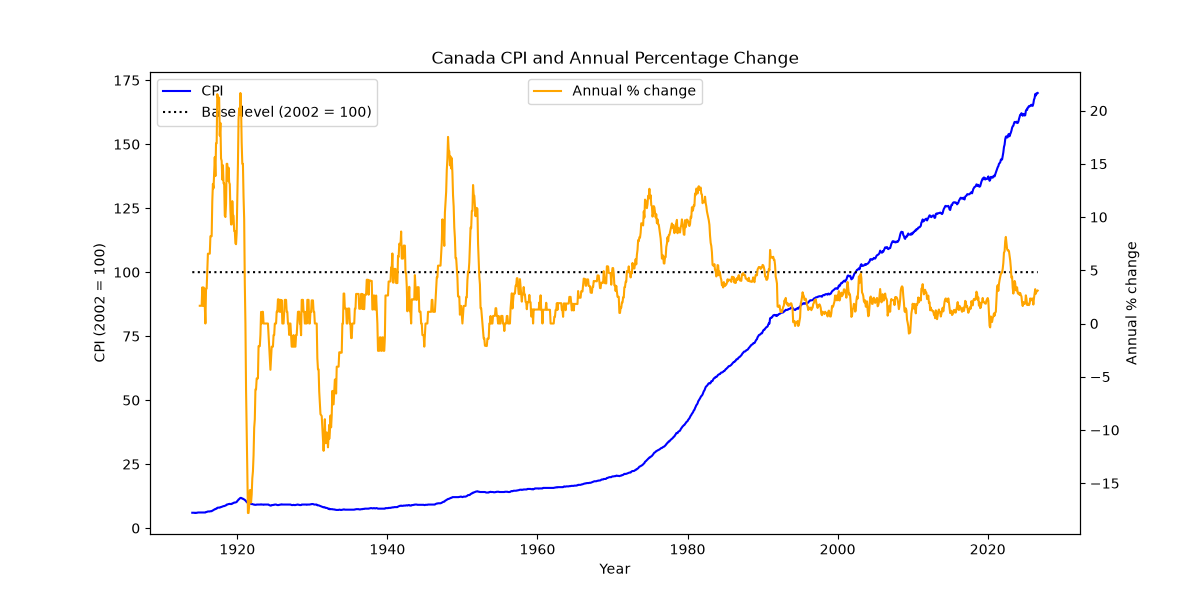
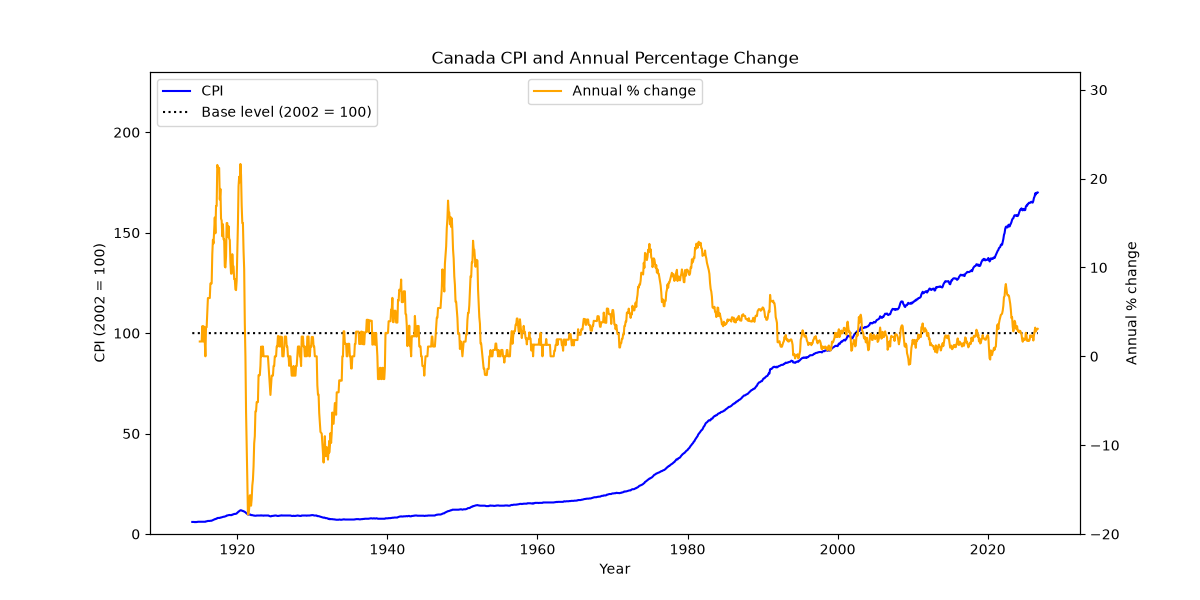
Add files via upload

diff --git a/Inflation_Calc.py b/Inflation_Calc.py
@@ -1,103 +1,114 @@
 # Inflation Calculator
 
-import pandas as pd              
+import pandas as pd  
+import matplotlib.pyplot as plt             
 
 # Reading the file
-file = open('STATIC_INFLATIONCALC.csv', 'r')    
+file = open('STATIC_INFLATIONCALC.csv', 'r') # open file  
 lines = file.readlines()                        
-file.close()                                    
+file.close() # close file                                   
 
 #creating empty lists
 dates = []          
 cpis = []   
 years = []         
 
-# loop for var line to add dates and CPI into the lists
+# loop to add date CPI to the lists (skipping the first 9 lines)
 for line in lines[9:]:                         
-    cpi_date, cpi = line.split(',')
-    cpi_date = cpi_date.strip(' \n"')
-    cpi = cpi.strip(' \n"')                                         
-    dates.append(cpi_date)                  
-    cpis.append(float(cpi)) 
-    year = int(cpi_date[0:4])               # first 4 characters of the date = year
-    month = int(cpi_date[5:7])              # characters 5-6 of the date = month
-    years.append(year + (month - 1) / 12)             
+    cpi_date, cpi = line.split(',') #split line at comma into date and CPI
+    cpi_date = cpi_date.strip(' \n"') # removes spaces, qoutes, and the new line from date
+    cpi = cpi.strip(' \n"') # same for CPI^                             
+    dates.append(cpi_date)  # add date to the list  
+    cpis.append(float(cpi)) #add CPI to list as a float
+    year = int(cpi_date[0:4]) # first 4 characters of the date = year
+    month = int(cpi_date[5:7]) # characters 5-6 of the date = month
+    years.append(year + (month - 1) / 12) # date as a number for the graph      
 
-cpi_data = pd.DataFrame({'date': dates, 'CPI': cpis})   
+cpi_data = pd.DataFrame({'date': dates, 'CPI': cpis})   # put the date and CPI lists into pandas data frame
 
-first_date = dates[0][0:7]
-last_date = dates[-1][0:7]
+first_date = dates[0][0:7] # earliest date in the data
+last_date = dates[-1][0:7] # latest date in the data
 
-# ask price 
+# Asking for price. Validates for 0 and letters 
+while True:    # loop asking until the price is valid
+    try:
+        price = float(input("Enter the price: "))  # asking user for price
+        if price != 0: # any number (except 0)
+            break  # valid, so stop asking
+    except: # if it wasn't a number, float fails
+        pass
+    print("Invalid price. Enter a number, e.g. 100 or 100.50")    
 
-price = float(input("Enter the price: "))
-    
 # Asking for the two dates
-def get_date(date_speficier):
+def get_date(date_specifier):
     while True:
-        user_input_date = input("Enter the " + date_speficier + " date (YYYY-MM): ")
+        user_input_date = input("Enter the " + date_specifier + " date (YYYY-MM): ") # asking for dates
         if user_input_date + '-01' in dates:
             return user_input_date
         print("Invalid date. Use YYYY-MM between", first_date, "and", last_date)
 
+# ask the user for the first and second date
 cpi1_date = get_date("first")
 cpi2_date = get_date("second")
 
 # The Calculations
-cpi1 = cpi_data[cpi_data['date'] == cpi1_date + '-01']['CPI'].iloc[0] #links date to date and CPI rate
-cpi2 = cpi_data[cpi_data['date'] == cpi2_date + '-01']['CPI'].iloc[0]
+cpi1 = cpi_data[cpi_data['date'] == cpi1_date + '-01']['CPI'].iloc[0] # find the CPI for the first date
+cpi2 = cpi_data[cpi_data['date'] == cpi2_date + '-01']['CPI'].iloc[0] # find the CPI for the second date
 
-new_price = price * cpi2 / cpi1
-price_percent_change = (new_price - price) / price * 100
 
-year1 = int(cpi1_date[0:4])
-month1 = int(cpi1_date[5:7])
-year2 = int(cpi2_date[0:4])
-month2 = int(cpi2_date[5:7])
-num_years = (year2 - year1) + (month2 - month1) / 12
+new_price = price * cpi2 / cpi1 # BoC's formula
+price_percent_change = (new_price - price) / price * 100 # % change in price
 
-if num_years == 0:  
-    annual_rate = 0
+year1 = int(cpi1_date[0:4]) # year from first date
+month1 = int(cpi1_date[5:7]) # month from first date
+year2 = int(cpi2_date[0:4]) # year from second date
+month2 = int(cpi2_date[5:7]) # month from second date
+num_years = (year2 - year1) + (month2 - month1) / 12 # years between the two dates
+
+if num_years == 0:  # same month entered twice
+    annual_rate = 0 # no time passed, so no inflation
 else:
-    annual_rate = ((cpi2 / cpi1) ** (1 / num_years) - 1) * 100   
+    annual_rate = ((cpi2 / cpi1) ** (1 / num_years) - 1) * 100 # compound annual inflation rate  
 
+# If second date is earlier than first make the number positive
 if num_years < 0:
     num_years = -num_years
 
 # Printing results
-print(50 * '-')
-print("${:,.2f} CAD in {} would cost ${:,.2f} CAD in {}".format(price, cpi1_date, new_price, cpi2_date))
-print("Percent change: {:.2f}%".format(price_percent_change))
-print("Number of years: {:.2f}".format(num_years))
-print("Average annual rate of inflation: {:.2f}%".format(annual_rate))
-print("CPI for {}: {:.1f}".format(cpi1_date, cpi1))
-print("CPI for {}: {:.1f}".format(cpi2_date, cpi2))
-print("2002 CPI = 100.0")
+print(50 * '-') 
+print("${:,.2f} CAD in {} would cost ${:,.2f} CAD in {}".format(price, cpi1_date, new_price, cpi2_date)) # original price and what it would cost on the second date
+print("Percent change: {:.2f}%".format(price_percent_change)) # change in price
+print("Number of years: {:.2f}".format(num_years)) # years between two dates
+print("Average annual rate of inflation: {:.2f}%".format(annual_rate)) # compound inflation rate per year
+print("CPI for {}: {:.1f}".format(cpi1_date, cpi1)) # CPI on the first date
+print("CPI for {}: {:.1f}".format(cpi2_date, cpi2)) # CPI on the second date
+print("2002 CPI = 100.0") # base year note (on BoC's website)
 print(50 * '-')
 
 # Generating CPI graph
 change = []     
                             
-for i in range(12, len(cpis)):                   # start at month 12, since the first 12 months have nothing to compare to
+for i in range(12, len(cpis)): # start at month 12, since the first 12 months have nothing to compare to
     change.append((cpis[i] / cpis[i - 12] - 1) * 100)   # % change vs. 12 months earlier
 
-base = [100] * len(years)                       # a list of 100s for the dotted base line (2002 CPI = 100)
+base = [100] * len(years) # a list of 100s for the dotted base line (2002 CPI = 100)
 
 # Drawing the graph
-import matplotlib.pyplot as plt 
-fig, ax1 = plt.subplots(figsize=(12, 6))        # create the figure and the left axis
+fig, ax1 = plt.subplots(figsize=(12, 6)) # create the figure and the left axis
 
-ax1.plot(years, cpis, color='blue', label='CPI')                                # CPI line
-ax1.plot(years, base, color='black', linestyle=':', label='Base level (2002 = 100)')   # dotted base line
-ax1.set_xlabel('Year')                          # x-axis label
-ax1.set_ylabel('CPI (2002 = 100)')              # left y-axis label
-ax1.set_title('Canada CPI and Annual Percentage Change')   # title
-ax1.legend(loc='upper left')                    # legend for the left axis
+ax1.plot(years, cpis, color='blue', label='CPI') # CPI line
+ax1.plot(years, base, color='black', linestyle=':', label='Base level (2002 = 100)') # dotted base line
+ax1.set_xlabel('Year')  # x-axis label
+ax1.set_ylabel('CPI (2002 = 100)')  # left y-axis label
+ax1.set_title('Canada CPI and Annual Percentage Change')  # title
+ax1.set_ylim(0, 230) # making left axis a bit taller (to make sure lines stay below legend)
+ax1.legend(loc='upper left')  # legend for the left axis
 
-ax2 = ax1.twinx()                               # second y-axis on the RIGHT (needed for the % change)
+ax2 = ax1.twinx()  # second y-axis on the RIGHT (needed for the % change)
 ax2.plot(years[12:], change, color='orange', label='Annual % change')   # skip the first 12 months to match the change list
-ax2.set_ylabel('Annual % change')               # right y-axis label
-ax2.legend(loc='upper center')                  # legend for the right axis
+ax2.set_ylabel('Annual % change') # right y-axis label
+ax2.set_ylim(-20, 32) # making right axis a bit taller
+ax2.legend(loc='upper center')  # legend for the right axis
 
-fig.savefig('CPI_Graph.png')               
-plt.show()                
+fig.savefig('CPI_Graph.png')  #save the graph as a png file             
+plt.show() # shows the graph                

diff --git a/README.md b/README.md
@@ -2,14 +2,13 @@
 
 ### Description
 - FINE 3300, Fall 2026, Assignment 2
-- I made a CPI graph and an inflation calculator in Python, based on the [Bank of Canada Inflation Calculator](https://www.bankofcanada.ca/rates/related/inflation-calculator/).
+- I made an inflation calculator and a CPI graph in Python, based on the [Bank of Canada Inflation Calculator](https://www.bankofcanada.ca/rates/related/inflation-calculator/).
 - The Bank of Canada calculator only lets you pick a year. Mine lets you pick a month and a year.
 
 ### Files
-- `CPIGraph.py` - makes the graph of the CPI and the annual % change, and saves it as `CPI_Graph.png`
-- `InflationCalculator.py` - the inflation calculator
+- `Inflation_Calc.py` - asks for a price and two dates, prints the results, then shows the CPI graph and saves it as `CPI_Graph.png`
 - `STATIC_INFLATIONCALC.csv` - the CPI data from the Bank of Canada
-- `CPI_Graph.png` - the graph
+- `CPI_Graph.png` - the graph of the CPI and the annual % change
 
 ### How to use it
 1. Install pandas and matplotlib if you don't have them:
@@ -18,18 +17,18 @@
    ```
 2. Download all the files and put them in the same folder.
 3. Open that folder in VS Code (File → Open Folder).
-4. Run `CPIGraph.py` to see the graph.
-5. Run `InflationCalculator.py` to use the calculator. It will ask you for:
-   - the price (just the number, e.g. `1000`)
+4. Run `Inflation_Calc.py`. It will ask you for:
+   - the price (just the number, e.g. `1000`). Any number except 0 works, including negatives.
    - the first date (e.g. `1995-07`)
    - the second date (e.g. `2026-09`)
+5. It prints the results, then shows the CPI graph.
 
 If you type something wrong, it tells you and asks again.
 
 Example:
 ```
 Enter the price: abc
-Invalid price. Enter a positive number, e.g. 100 or 2500.50
+Invalid price. Enter a number, e.g. 100 or 100.50
 Enter the price: 1000
 Enter the first date (YYYY-MM): 1800-01
 Invalid date. Use YYYY-MM between 1914-01 and 2026-09
@@ -37,34 +36,34 @@ Enter the first date (YYYY-MM): 1995-07
 Enter the second date (YYYY-MM): 2026-09
 ```
 
+### Sample Output
+```
+--------------------------------------------------
+$1,000.00 CAD in 1995-07 would cost $1,934.02 CAD in 2026-09
+Percent change: 93.40%
+Number of years: 31.17
+Average annual rate of inflation: 2.14%
+CPI for 1995-07: 87.9
+CPI for 2026-09: 170.0
+2002 CPI = 100.0
+--------------------------------------------------
+```
+
 ### CPI Graph
 
 ![CPI Graph](CPI_Graph.png)
 
 **Commentary:**
-<!-- Check these against YOUR graph and put them in your own words. -->
-The CPI (blue line) goes up slowly until around 1970, then rises a lot faster. The dotted line is the base level of 100, which is the CPI in 2002.
+
+The CPI (blue line) stays low and flat until around 1970, then rises a lot faster. The dotted line is the base level of 100, which the CPI reaches in 2002.
 
 Some interesting parts of the annual % change (orange line):
-- Around 1917–1920 (WWI), inflation spiked, then prices dropped in the early 1920s.
-- In the early 1930s (Great Depression), prices went down, so the line goes below 0%.
+- During and after WWI (about 1917–1920), inflation spiked to over 20%. Then prices dropped sharply in 1921, to about -18%.
+- In the early 1930s (Great Depression), prices went down again, so the line goes below 0%.
+- Right after WWII, around 1948, inflation jumped to about 17%.
 - In the 1970s and early 1980s, inflation was really high, over 10% at times.
-- Since the 1990s, inflation has mostly stayed around 2%, which is the Bank of Canada's target.
-- In 2021–2022, after COVID, inflation jumped up again.
-
-### Sample Output
-<!-- Replace this with a real run from your own program. -->
-```
---------------------------------------------------
-$1,000.00 CAD in 1995-07 would cost $X,XXX.XX CAD in 2026-09
-Percent change: XX.XX%
-Number of years: 31.17
-Average annual rate of inflation: X.XX%
-CPI for 1995-07: XX.X
-CPI for 2026-09: XXX.X
-2002 CPI = 100.0
---------------------------------------------------
-```
+- Since the early 1990s, inflation has mostly stayed around 2%, which is the Bank of Canada's target.
+- In 2022, after COVID, inflation jumped to around 8%, the highest in about 40 years.
 
 ### Data Source
 Bank of Canada: https://www.bankofcanada.ca/valet/observations/STATIC_INFLATIONCALC/csv
